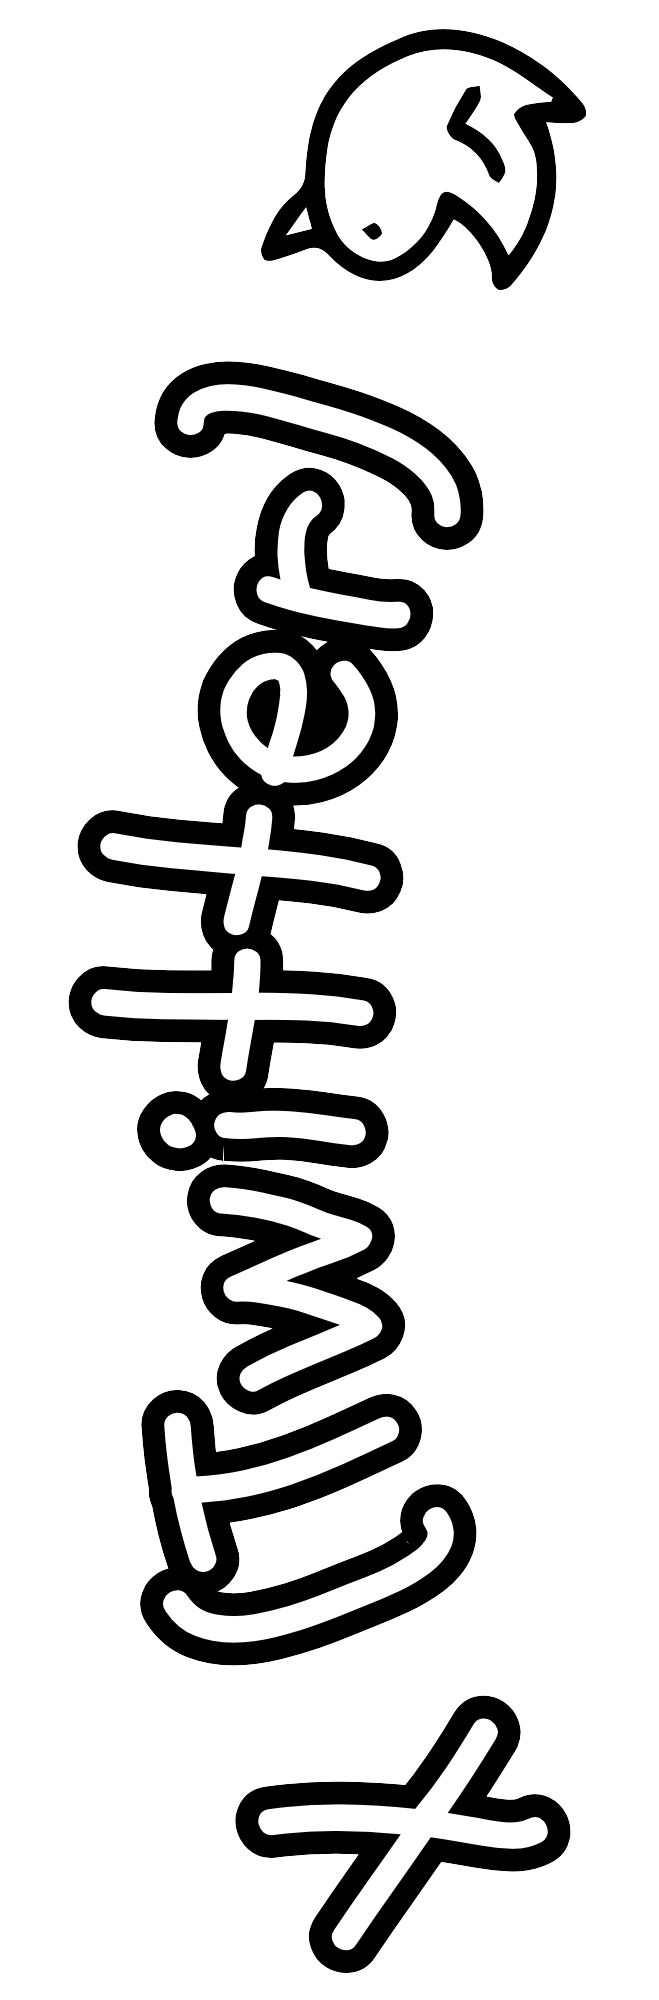
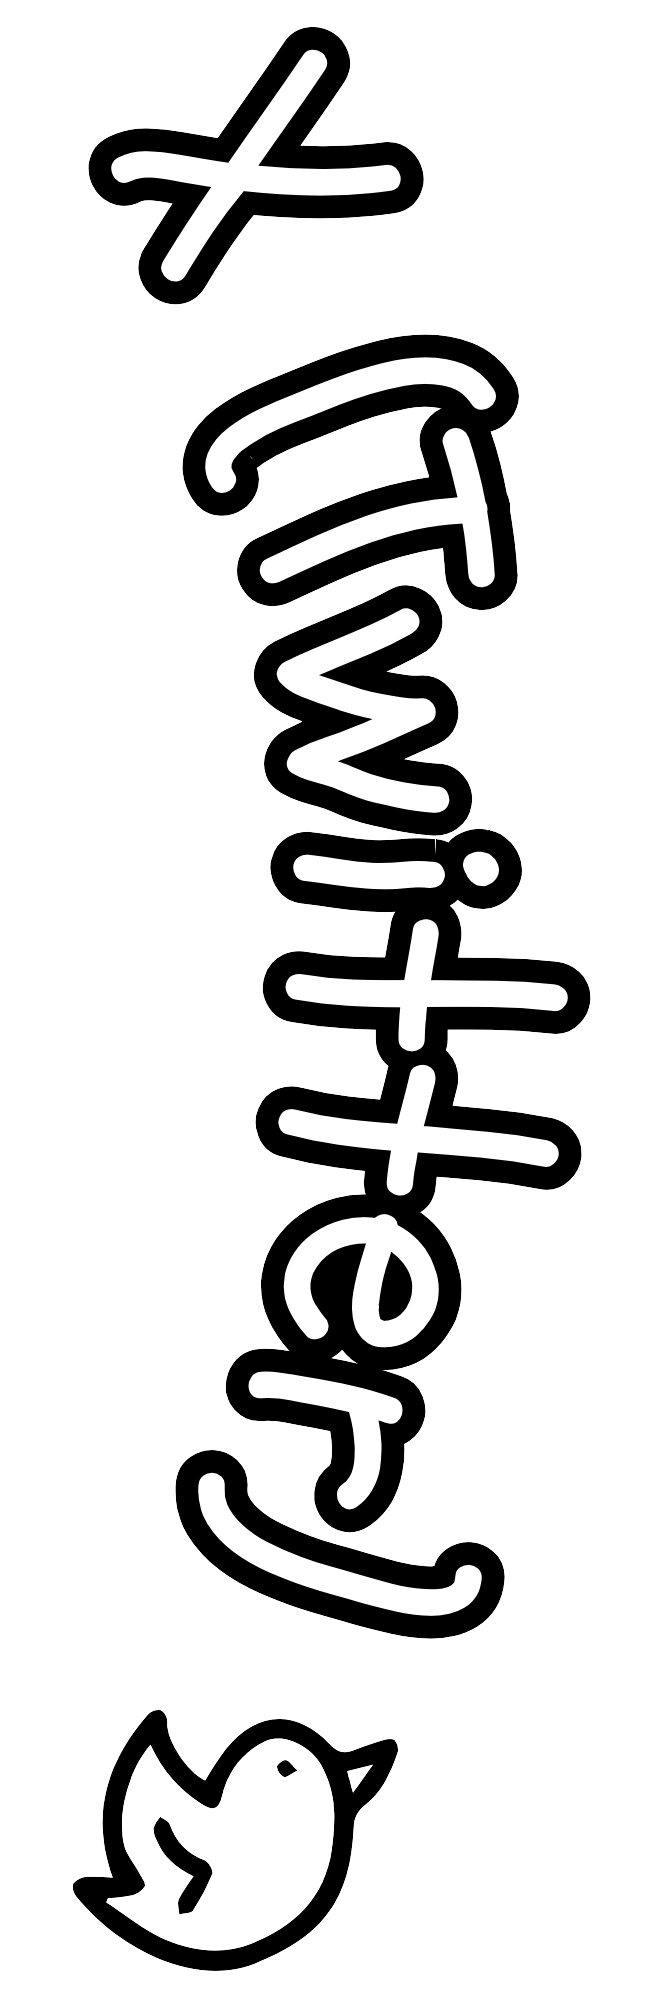
feat: optimize image

Changed region(s): [[0.091, 0.0, 0.9105, 0.992]]

diff --git a/index.html b/index.html
@@ -29,14 +29,14 @@
             target="_blank"
             class="h-2/5 w-8 absolute top-1/2 left-2 -translate-y-1/4"
           >
-            <img src="./assets/img/Twitter.png" class="" alt="" srcset="" />
+            <img src="./assets/img/tele.png" class="" alt="" srcset="" />
           </a>
           <a
             href="http://"
             target="_blank"
             class="h-2/5 w-8 absolute top-1/2 right-2 -translate-y-1/4"
           >
-            <img src="./assets/img/tele.png" class="" alt="" srcset="" />
+            <img src="./assets/img/Twitter.png" class="" alt="" srcset="" />
           </a>
           <img
             class="object-contain max-h-full z-10 full"
@@ -45,8 +45,22 @@
             srcset=""
           />
         </div>
+        <div class="relative h-20 z-20">
+          <a
+            href="http://"
+            target="_blank"
+            class="h-10 absolute top-1/3 left-1/2 -translate-x-1/2 -translate-y-1/3"
+          >
+            <img
+              src="./assets/img/go get.png"
+              class="h-full"
+              alt=""
+              srcset=""
+            />
+          </a>
+          <img class="h-20" src="./assets/img/test_2.png" alt="" srcset="" />
+        </div>
 
-        <img class="z-20 h-20" src="./assets/img/test_2.png" alt="" srcset="" />
         <div
           class="absolute bottom-[16%] left-1/2 -translate-x-1/2 w-[120px] z-0"
         >
